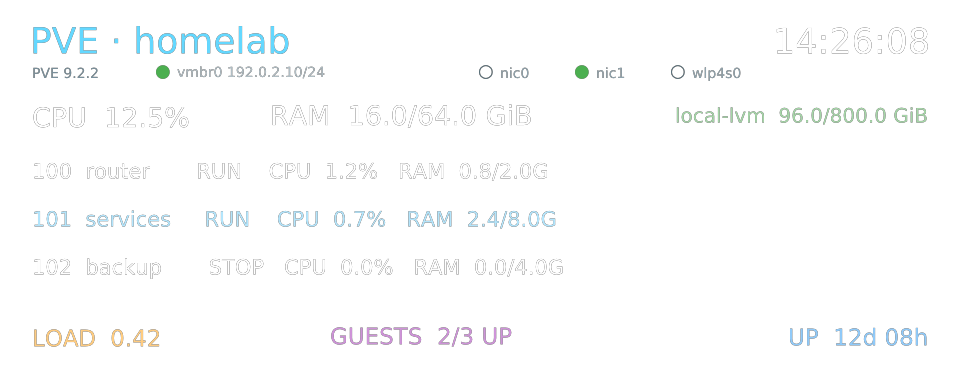
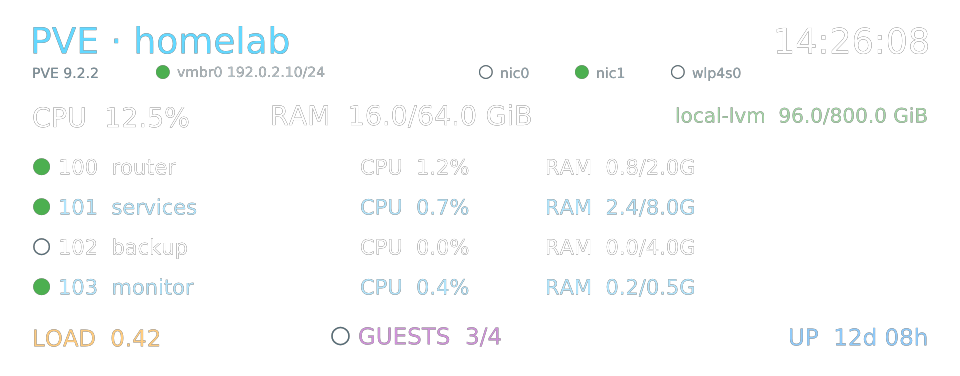
feat: show guest status with graphical indicators

diff --git a/crates/aster-pve/src/main.rs b/crates/aster-pve/src/main.rs
@@ -390,9 +390,23 @@ fn add_guest_counts(sensors: &mut BTreeMap<String, String>, guests: &Value) -> a
     ] {
         sensors.insert(key.into(), value.to_string());
     }
+    let all_running = total > 0 && running == total;
+    sensors.insert(
+        "pve_guests_online_dot".into(),
+        if all_running { "●" } else { " " }.into(),
+    );
+    sensors.insert(
+        "pve_guests_offline_dot".into(),
+        if total > 0 && !all_running {
+            "○"
+        } else {
+            " "
+        }
+        .into(),
+    );
     sensors.insert(
         "pve_guests_display".into(),
-        format!("GUESTS  {running}/{total} UP"),
+        format!("GUESTS  {running}/{total}"),
     );
     sensors.insert(
         "pve_guest_list_title".into(),
@@ -406,25 +420,44 @@ fn add_guest_counts(sensors: &mut BTreeMap<String, String>, guests: &Value) -> a
     let mut sorted = guests.iter().collect::<Vec<_>>();
     sorted.sort_by_key(|guest| guest["vmid"].as_u64().unwrap_or_default());
     for index in 0..5 {
-        let display = sorted.get(index).map_or_else(
-            || " ".to_string(),
-            |guest| {
-                let vmid = guest["vmid"].as_u64().unwrap_or_default();
-                let name = guest["name"].as_str().unwrap_or("unnamed");
-                let name = name.chars().take(16).collect::<String>();
-                let running = guest["status"].as_str() == Some("running");
-                let state = if running { "RUN " } else { "STOP" };
-                let cpu = guest["cpu"].as_f64().unwrap_or_default() * 100.0;
-                let mem = guest["mem"].as_u64().unwrap_or_default();
-                let max_mem = guest["maxmem"].as_u64().unwrap_or_default();
-                format!(
-                    "{vmid:>3}  {name:<16} {state}   CPU {cpu:>4.1}%   RAM {:>4.1}/{:.1}G",
-                    gib(mem),
-                    gib(max_mem)
-                )
-            },
+        let prefix = format!("pve_guest_{index}");
+        let Some(guest) = sorted.get(index) else {
+            for suffix in [
+                "online_dot",
+                "offline_dot",
+                "identity_display",
+                "cpu_display",
+                "memory_display",
+                "display",
+            ] {
+                sensors.insert(format!("{prefix}_{suffix}"), " ".into());
+            }
+            continue;
+        };
+
+        let vmid = guest["vmid"].as_u64().unwrap_or_default();
+        let name = guest["name"].as_str().unwrap_or("unnamed");
+        let name = name.chars().take(18).collect::<String>();
+        let running = guest["status"].as_str() == Some("running");
+        let cpu = guest["cpu"].as_f64().unwrap_or_default() * 100.0;
+        let mem = guest["mem"].as_u64().unwrap_or_default();
+        let max_mem = guest["maxmem"].as_u64().unwrap_or_default();
+        let identity = format!("{vmid:>3}  {name}");
+        let cpu_display = format!("CPU {cpu:>4.1}%");
+        let memory_display = format!("RAM {:>4.1}/{:.1}G", gib(mem), gib(max_mem));
+
+        sensors.insert(format!("{prefix}_online_dot"), online_dot(running).into());
+        sensors.insert(format!("{prefix}_offline_dot"), offline_dot(running).into());
+        sensors.insert(format!("{prefix}_identity_display"), identity.clone());
+        sensors.insert(format!("{prefix}_cpu_display"), cpu_display.clone());
+        sensors.insert(format!("{prefix}_memory_display"), memory_display.clone());
+        sensors.insert(
+            format!("{prefix}_display"),
+            format!(
+                "{}  {identity:<23}  {cpu_display}  {memory_display}",
+                if running { "●" } else { "○" }
+            ),
         );
-        sensors.insert(format!("pve_guest_{index}_display"), display);
     }
     Ok(())
 }
@@ -542,8 +575,11 @@ mod tests {
         "\"current-kernel\":{\"release\":\"7.0.2-6-pve\"},\"loadavg\":[\"0.42\"],",
         "\"memory\":{\"used\":17179869184,\"total\":68719476736},",
         "\"rootfs\":{\"used\":5368709120,\"total\":42949672960},\"uptime\":90061}\n",
-        "__ASTER_GUESTS__[{\"type\":\"lxc\",\"status\":\"running\"},",
-        "{\"type\":\"qemu\",\"status\":\"stopped\"}]\n",
+        "__ASTER_GUESTS__[{\"vmid\":100,\"name\":\"router\",\"type\":\"lxc\",",
+        "\"status\":\"running\",\"cpu\":0.012,\"mem\":858993459,",
+        "\"maxmem\":2147483648},{\"vmid\":101,\"name\":\"backup\",",
+        "\"type\":\"qemu\",\"status\":\"stopped\",\"cpu\":0.0,\"mem\":0,",
+        "\"maxmem\":4294967296}]\n",
         "__ASTER_STORAGE__[{\"storage\":\"local\",\"active\":1,\"enabled\":1,",
         "\"used\":10737418240,\"total\":107374182400}]\n",
         "__ASTER_NETWORK__[{\"iface\":\"nic0\",\"type\":\"eth\",\"exists\":1,",
@@ -561,7 +597,17 @@ mod tests {
         assert_eq!(values["pve_version"], "9.2.2");
         assert_eq!(values["pve_cpu_percent"], "12.5");
         assert_eq!(values["pve_memory_percent"], "25.0");
-        assert_eq!(values["pve_guests_display"], "GUESTS  1/2 UP");
+        assert_eq!(values["pve_guests_display"], "GUESTS  1/2");
+        assert_eq!(values["pve_guests_online_dot"], " ");
+        assert_eq!(values["pve_guests_offline_dot"], "○");
+        assert_eq!(values["pve_guest_0_online_dot"], "●");
+        assert_eq!(values["pve_guest_0_offline_dot"], " ");
+        assert_eq!(values["pve_guest_0_identity_display"], "100  router");
+        assert_eq!(values["pve_guest_0_cpu_display"], "CPU  1.2%");
+        assert_eq!(values["pve_guest_0_memory_display"], "RAM  0.8/2.0G");
+        assert_eq!(values["pve_guest_1_online_dot"], " ");
+        assert_eq!(values["pve_guest_1_offline_dot"], "○");
+        assert_eq!(values["pve_guest_1_identity_display"], "101  backup");
         assert_eq!(values["pve_storage_display"], "local  10.0/100.0 GiB");
         assert_eq!(values["pve_uptime_display"], "UP  1d 01h");
         assert_eq!(values["pve_network_iface"], "vmbr0");

diff --git a/docs/pve.md b/docs/pve.md
@@ -47,12 +47,16 @@ With fingerprint touch control enabled:
 - Any touch wakes the display while it is off. The release that follows is ignored.
 - Holding the sensor for 2 seconds switches the display off.
 
-The PVE configuration combines node resources and three workload rows into one page. Timed rotation
+The PVE configuration combines node resources and up to four workload rows into one page. Timed rotation
 is disabled, and double taps are ignored when only one panel is active. The hold threshold can be
 changed with `--fingerprint-long-press-ms`.
 
 The network row uses a green filled circle for an online interface and a gray hollow circle for an
 offline interface. The primary bridge also shows its CIDR address.
+
+Guest rows use the same graphical convention: a green filled circle means the guest is running and
+a gray hollow circle means it is stopped. Identity, CPU, and memory values occupy fixed columns. The
+summary circle is green only when every listed guest is running; otherwise it is gray and hollow.
 
 The touch-only protocol does not inspect, enroll, identify, or delete fingerprints. Do not run
 `fprintd` or another fingerprint client at the same time because the USB interface is exclusive.

diff --git a/README.en.md b/README.en.md
@@ -17,7 +17,7 @@ events from the MAFP fingerprint module as screen controls.
 
 - A single-page PVE dashboard for node, CPU, memory, load, uptime, storage, and guest status.
 - One-second refresh with the time reported by the PVE host.
-- Green filled and gray hollow indicators for network links, plus the primary interface IP/CIDR.
+- Green filled and gray hollow indicators for network links and guest status, plus the primary interface IP/CIDR.
 - Touch input from the GEM12+ MAFP fingerprint module without fingerprint enrollment or matching:
   - Any touch wakes the display while it is off.
   - Holding for two seconds switches the display off.

diff --git a/CHANGELOG.md b/CHANGELOG.md
@@ -9,6 +9,10 @@ and this project adheres to [Semantic Versioning](https://semver.org/spec/v2.0.0
 
 _Changes in the next release_
 
+### Changed
+
+- Replaced guest `RUN`/`STOP` text with graphical status indicators and aligned resource columns.
+
 ## v0.2.0-gem12.1 - 2026-09-05
 
 ### Added
